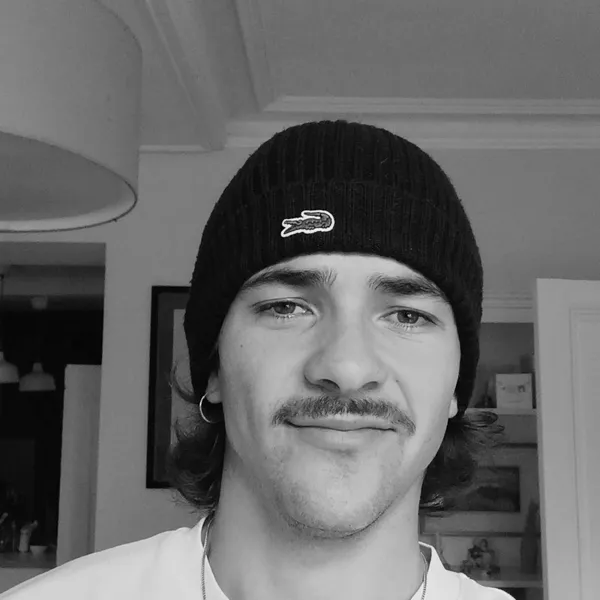
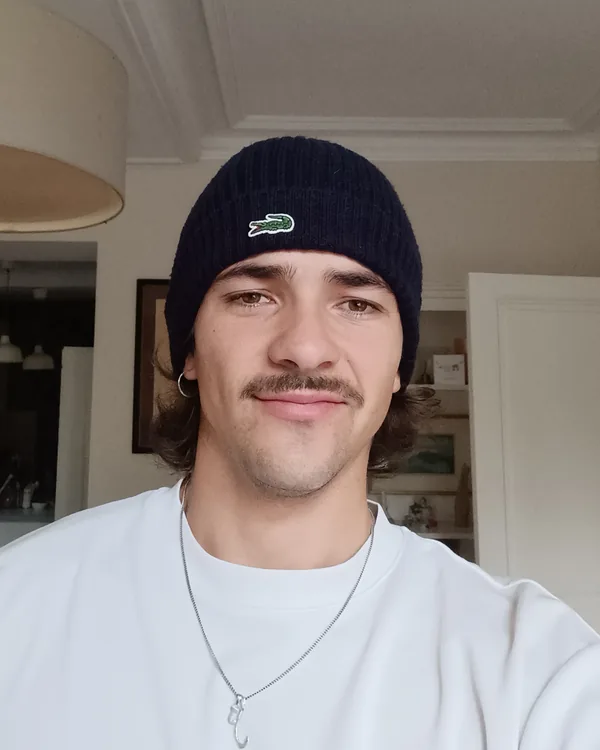
Imágenes: fuera el círculo sobre las fotos y caras centradas
- Nosotros: se quita el halo circular que aparecía sobre la cara al pulsar una tarjeta;
  la tarjeta activa se marca con un brillo suave en el marco.
- El cursor propio deja de dibujar su anillo encima de las fotos (solo queda el punto).
- Fotos de Abel y Ariel recortadas de nuevo desde los originales a 4:5 (600×750),
  con la cara centrada, a la misma altura y del mismo tamaño en las dos.
- Proyectos: el marco de las capturas tiene la proporción de la imagen, así ya no se
  cortan los lados (antes se perdía el principio de los textos).
- sw.js: VERSION a2wd-v20 para que la app instalada coja los cambios.

Claude-Session: https://claude.ai/code/session_01MbWbPXm8XZntK73hFYfbmA

diff --git a/assets/css/galaxia.css b/assets/css/galaxia.css
@@ -77,10 +77,11 @@ html.con-cursor input,html.con-cursor textarea,html.con-cursor select,html.con-c
 .cursor-anillo{
   position:fixed;left:0;top:0;width:34px;height:34px;margin:-17px 0 0 -17px;border-radius:50%;
   border:1px solid rgba(207,224,255,.5);display:grid;place-items:center;
-  transition:width .35s cubic-bezier(.2,.8,.2,1),height .35s cubic-bezier(.2,.8,.2,1),margin .35s cubic-bezier(.2,.8,.2,1),background .3s ease,border-color .3s ease;
+  transition:width .35s cubic-bezier(.2,.8,.2,1),height .35s cubic-bezier(.2,.8,.2,1),margin .35s cubic-bezier(.2,.8,.2,1),background .3s ease,border-color .3s ease,opacity .25s ease;
 }
 .cursor.sobre-enlace .cursor-anillo{width:58px;height:58px;margin:-29px 0 0 -29px;background:rgba(156,192,255,.1);border-color:rgba(214,228,255,.9);}
 .cursor.pulsado .cursor-anillo{background:rgba(156,192,255,.24);}
+.cursor.sobre-foto .cursor-anillo{opacity:0;}
 .cursor-txt{font-family:var(--f-mono);font-size:10px;letter-spacing:.12em;text-transform:uppercase;color:#eef4ff;}
 
 /* ---------- Botón de luz ---------- */
@@ -451,19 +452,11 @@ html.con-cursor input,html.con-cursor textarea,html.con-cursor select,html.con-c
   transform-style:preserve-3d;
 }
 .trip-foto{position:absolute;inset:0;z-index:0;}
-.trip-foto img{width:100%;height:100%;object-fit:cover;object-position:50% 40%;filter:grayscale(1) brightness(.42) contrast(1.05);transform:scale(1.05);transition:filter .7s ease,transform 1s cubic-bezier(.2,.7,.2,1);}
+.trip-foto img{width:100%;height:100%;object-fit:cover;object-position:50% 50%;filter:grayscale(1) brightness(.42) contrast(1.05);transform:scale(1.05);transition:filter .7s ease,transform 1s cubic-bezier(.2,.7,.2,1);}
 .trip-card::before{content:"";position:absolute;inset:0;z-index:1;pointer-events:none;background:radial-gradient(ellipse 60% 50% at 50% 42%,rgba(5,6,10,0) 35%,rgba(5,6,10,.82) 100%);}
 .trip-card::after{content:"";position:absolute;left:0;right:0;bottom:0;height:42%;z-index:2;pointer-events:none;background:linear-gradient(rgba(5,6,10,0),rgba(5,6,10,.88));}
-.trip-halo{
-  position:absolute;z-index:2;left:50%;top:41%;width:76%;aspect-ratio:1;border-radius:50%;pointer-events:none;
-  transform:translate(-50%,-50%) scale(.9);opacity:0;mix-blend-mode:screen;
-  border:1px solid rgba(225,235,255,.5);
-  background:radial-gradient(circle,rgba(210,225,255,0) 60%,rgba(210,225,255,.13) 70%,rgba(210,225,255,0) 71%);
-  box-shadow:0 0 70px 8px rgba(160,195,255,.16),inset 0 0 50px rgba(160,195,255,.14);
-  transition:opacity .7s ease,transform 1s cubic-bezier(.2,.7,.2,1);
-}
-.trip-card.activa{border-color:rgba(220,232,255,.55);}
-.trip-card.activa .trip-halo{opacity:1;transform:translate(-50%,-50%) scale(1);}
+.trip-card{box-shadow:0 0 0 0 rgba(160,195,255,0);transition:border-color .5s ease,box-shadow .7s ease;}
+.trip-card.activa{border-color:rgba(220,232,255,.55);box-shadow:0 0 0 1px rgba(220,232,255,.12),0 24px 70px -28px rgba(160,195,255,.45);}
 .trip-card.activa .trip-foto img{filter:grayscale(1) brightness(1) contrast(1.1);transform:scale(1);}
 .trip-card:not(.activa):hover .trip-foto img{filter:grayscale(1) brightness(.62) contrast(1.05);}
 .trip-nombre{position:absolute;z-index:3;left:clamp(14px,2vw,22px);bottom:clamp(12px,1.6vw,18px);font-family:var(--f-display);font-weight:600;font-size:clamp(18px,1.9vw,28px);letter-spacing:-.04em;color:#eef2f9;}
@@ -547,8 +540,8 @@ footer{border-top-color:var(--panel-borde);}
 .mision-in::before,.mision-in::after{content:"";position:absolute;width:14px;height:14px;pointer-events:none;border:solid rgba(214,228,255,.7);z-index:3;}
 .mision-in::before{left:-1px;top:-1px;border-width:1px 0 0 1px;}
 .mision-in::after{right:-1px;bottom:-1px;border-width:0 1px 1px 0;}
-.mision-img{position:relative;aspect-ratio:16/10;overflow:hidden;background:#0b0e16;border-bottom:1px solid var(--panel-borde);}
-.mision-img img{width:100%;height:100%;object-fit:cover;filter:grayscale(.85) brightness(.75) contrast(1.05);transform:scale(1.03);transition:filter .7s ease,transform 1.1s cubic-bezier(.2,.7,.2,1);}
+.mision-img{position:relative;aspect-ratio:1000/457;overflow:hidden;background:#0b0e16;border-bottom:1px solid var(--panel-borde);}
+.mision-img img{width:100%;height:100%;object-fit:cover;object-position:50% 0;filter:grayscale(.85) brightness(.75) contrast(1.05);transform:scale(1.03);transition:filter .7s ease,transform 1.1s cubic-bezier(.2,.7,.2,1);}
 .mision:hover .mision-img img{filter:none;transform:scale(1.07);}
 .mision-img::after{content:"";position:absolute;inset:0;pointer-events:none;background:repeating-linear-gradient(0deg,rgba(255,255,255,.035) 0 1px,transparent 1px 3px);mix-blend-mode:overlay;}
 .mision-brillo{position:absolute;inset:0;z-index:2;pointer-events:none;opacity:0;transition:opacity .4s ease;background:radial-gradient(420px circle at var(--mx,50%) var(--my,50%),rgba(170,200,255,.14),transparent 45%);}

diff --git a/index.html b/index.html
@@ -424,8 +424,7 @@
         <span class="td-guia"></span>
       </div>
       <button type="button" class="trip-card activa" data-persona="abel" aria-pressed="true" aria-controls="tripPanel">
-        <span class="trip-foto"><img src="img/abel.webp" width="600" height="600" loading="lazy" decoding="async" alt="Retrato en blanco y negro de Abel Oliva, cofundador de A2WD"></span>
-        <span class="trip-halo" aria-hidden="true"></span>
+        <span class="trip-foto"><img src="img/abel.webp" width="600" height="750" loading="lazy" decoding="async" alt="Retrato en blanco y negro de Abel Oliva, cofundador de A2WD"></span>
         <span class="trip-nombre">Abel</span>
         <span class="trip-datos" hidden><span class="d-nombre">Abel Oliva</span><span class="d-rol" data-i18n="abel.role">INGENIERÍA MECÁNICA</span><span class="d-bio" data-i18n="abel.bio">Cofundador de A2WD. Aporta la mirada de quien piensa en estructura y funcionamiento, aplicada ahora a interfaces y experiencia de usuario.</span></span>
       </button>
@@ -433,8 +432,7 @@
         <svg viewBox="0 0 100 60"><path class="inf-trazo" d="M50,30 C50,19 41,10 30,10 C19,10 10,19 10,30 C10,41 19,50 30,50 C41,50 50,41 50,30 C50,19 59,10 70,10 C81,10 90,19 90,30 C90,41 81,50 70,50 C59,50 50,41 50,30 Z"/><circle class="inf-punto" r="2.6"/></svg>
       </div>
       <button type="button" class="trip-card" data-persona="ariel" aria-pressed="false" aria-controls="tripPanel">
-        <span class="trip-foto"><img src="img/ariel.webp" width="600" height="600" loading="lazy" decoding="async" alt="Retrato en blanco y negro de Ariel Occhietti, cofundador de A2WD"></span>
-        <span class="trip-halo" aria-hidden="true"></span>
+        <span class="trip-foto"><img src="img/ariel.webp" width="600" height="750" loading="lazy" decoding="async" alt="Retrato en blanco y negro de Ariel Occhietti, cofundador de A2WD"></span>
         <span class="trip-nombre">Ariel</span>
         <span class="trip-datos" hidden><span class="d-nombre">Ariel Occhietti</span><span class="d-rol" data-i18n="ariel.role">INGENIERÍA INFORMÁTICA</span><span class="d-bio" data-i18n="ariel.bio">Cofundador de A2WD. Le apasiona programar y entender cómo hacer que una web sea rápida, clara y fácil de usar de principio a fin.</span></span>
       </button>

diff --git a/assets/js/efectos.js b/assets/js/efectos.js
@@ -170,6 +170,7 @@
       var activo = !campo && t.closest('a,button,[role="button"],[data-cursor],label,summary');
       c.classList.toggle('sobre-campo', !!campo);
       c.classList.toggle('sobre-enlace', !!activo);
+      c.classList.toggle('sobre-foto', !!t.closest('.trip-card,.mision-img,[data-cursor-foto]'));   // sin anillo encima de las fotos
       var etiqueta = activo && activo.getAttribute('data-cursor');
       txt.textContent = etiqueta || '';
       c.classList.toggle('con-texto', !!etiqueta);

diff --git a/sw.js b/sw.js
@@ -7,7 +7,7 @@
 //  - Recibe las notificaciones push y abre la app al tocarlas.
 //  Al cambiar archivos del portal, sube el número de VERSION.
 // =====================================================================
-const VERSION = 'a2wd-v19';
+const VERSION = 'a2wd-v20';
 const CARCASA = [
   './',
   './index.html',
